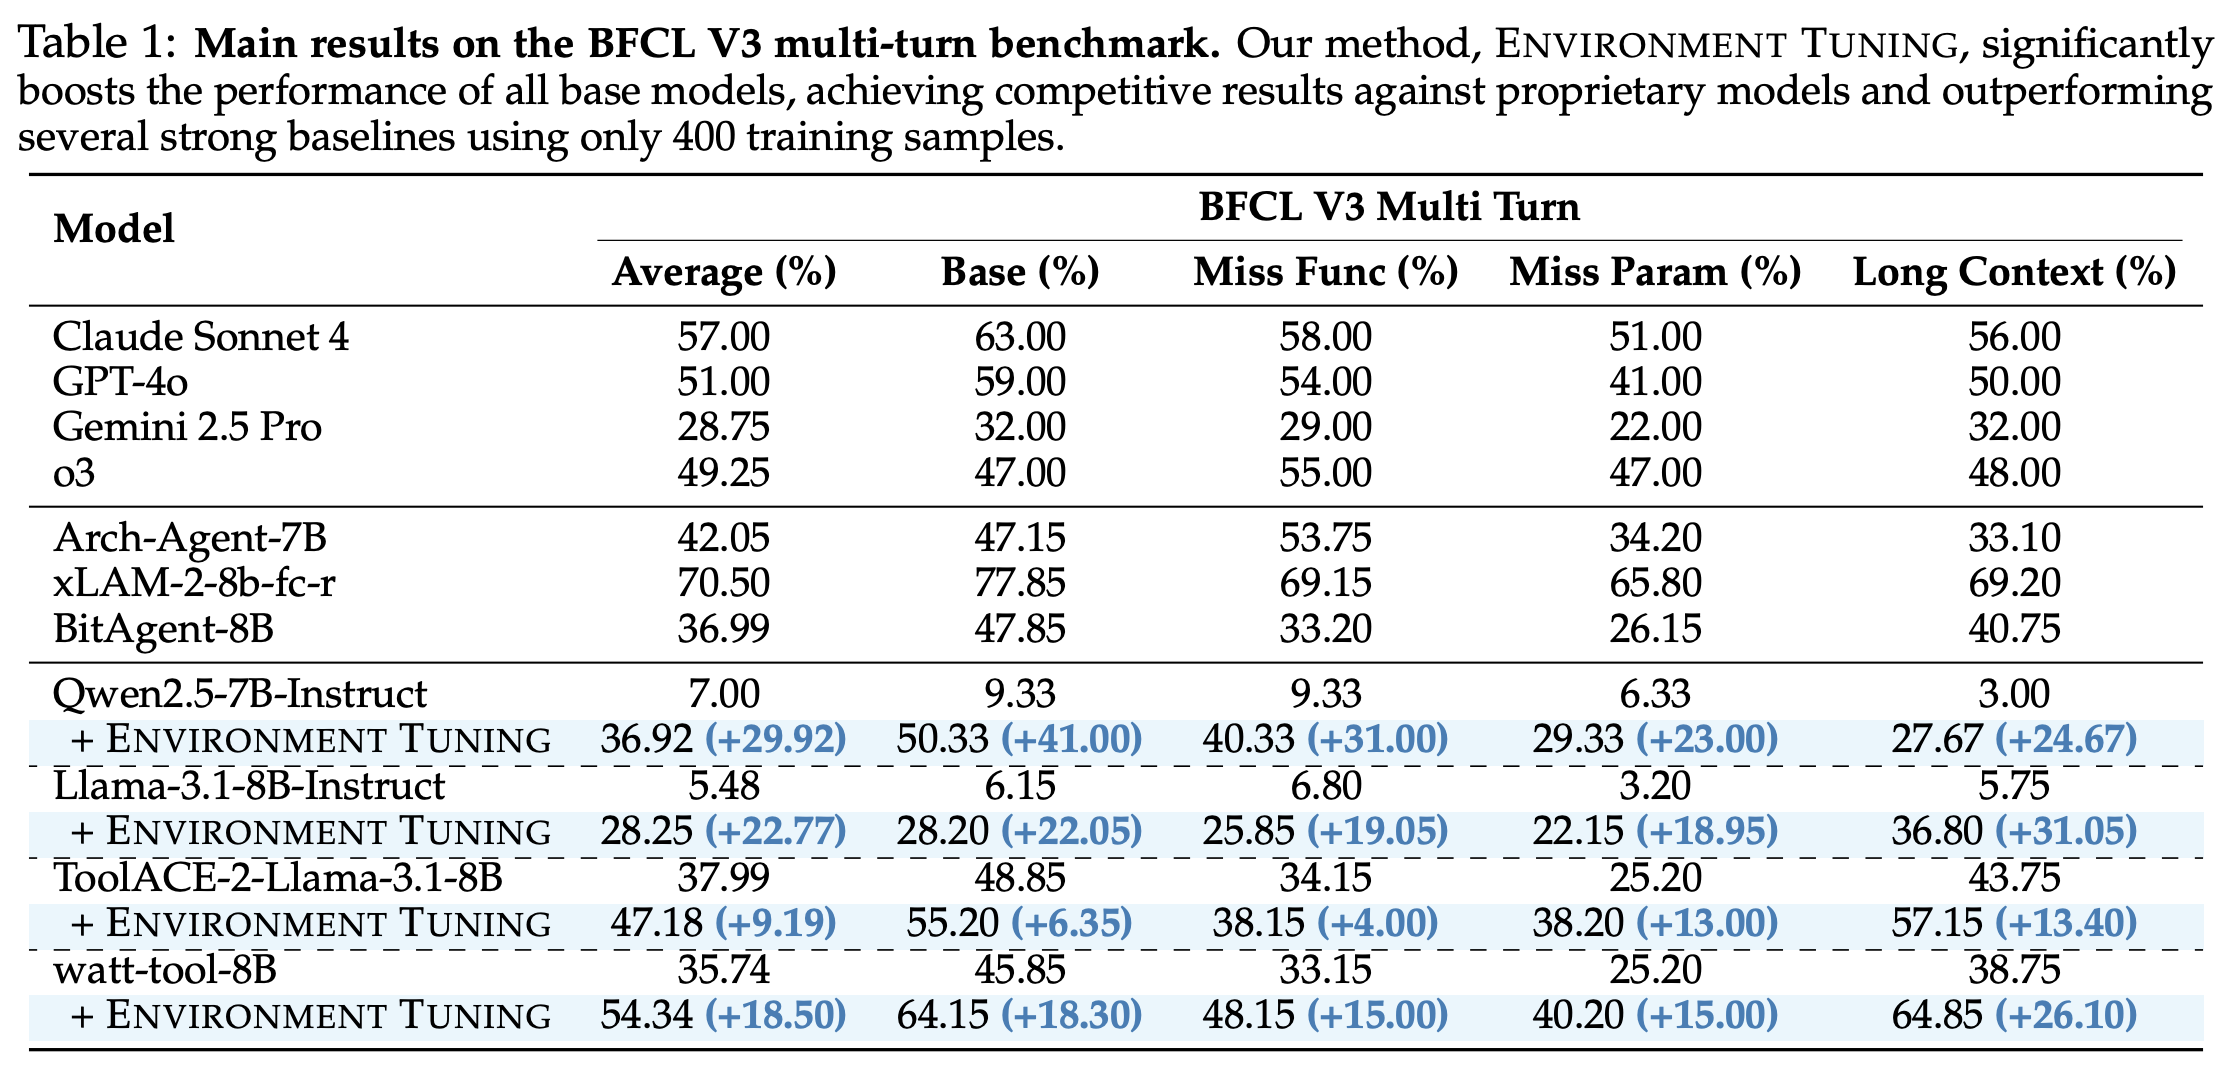
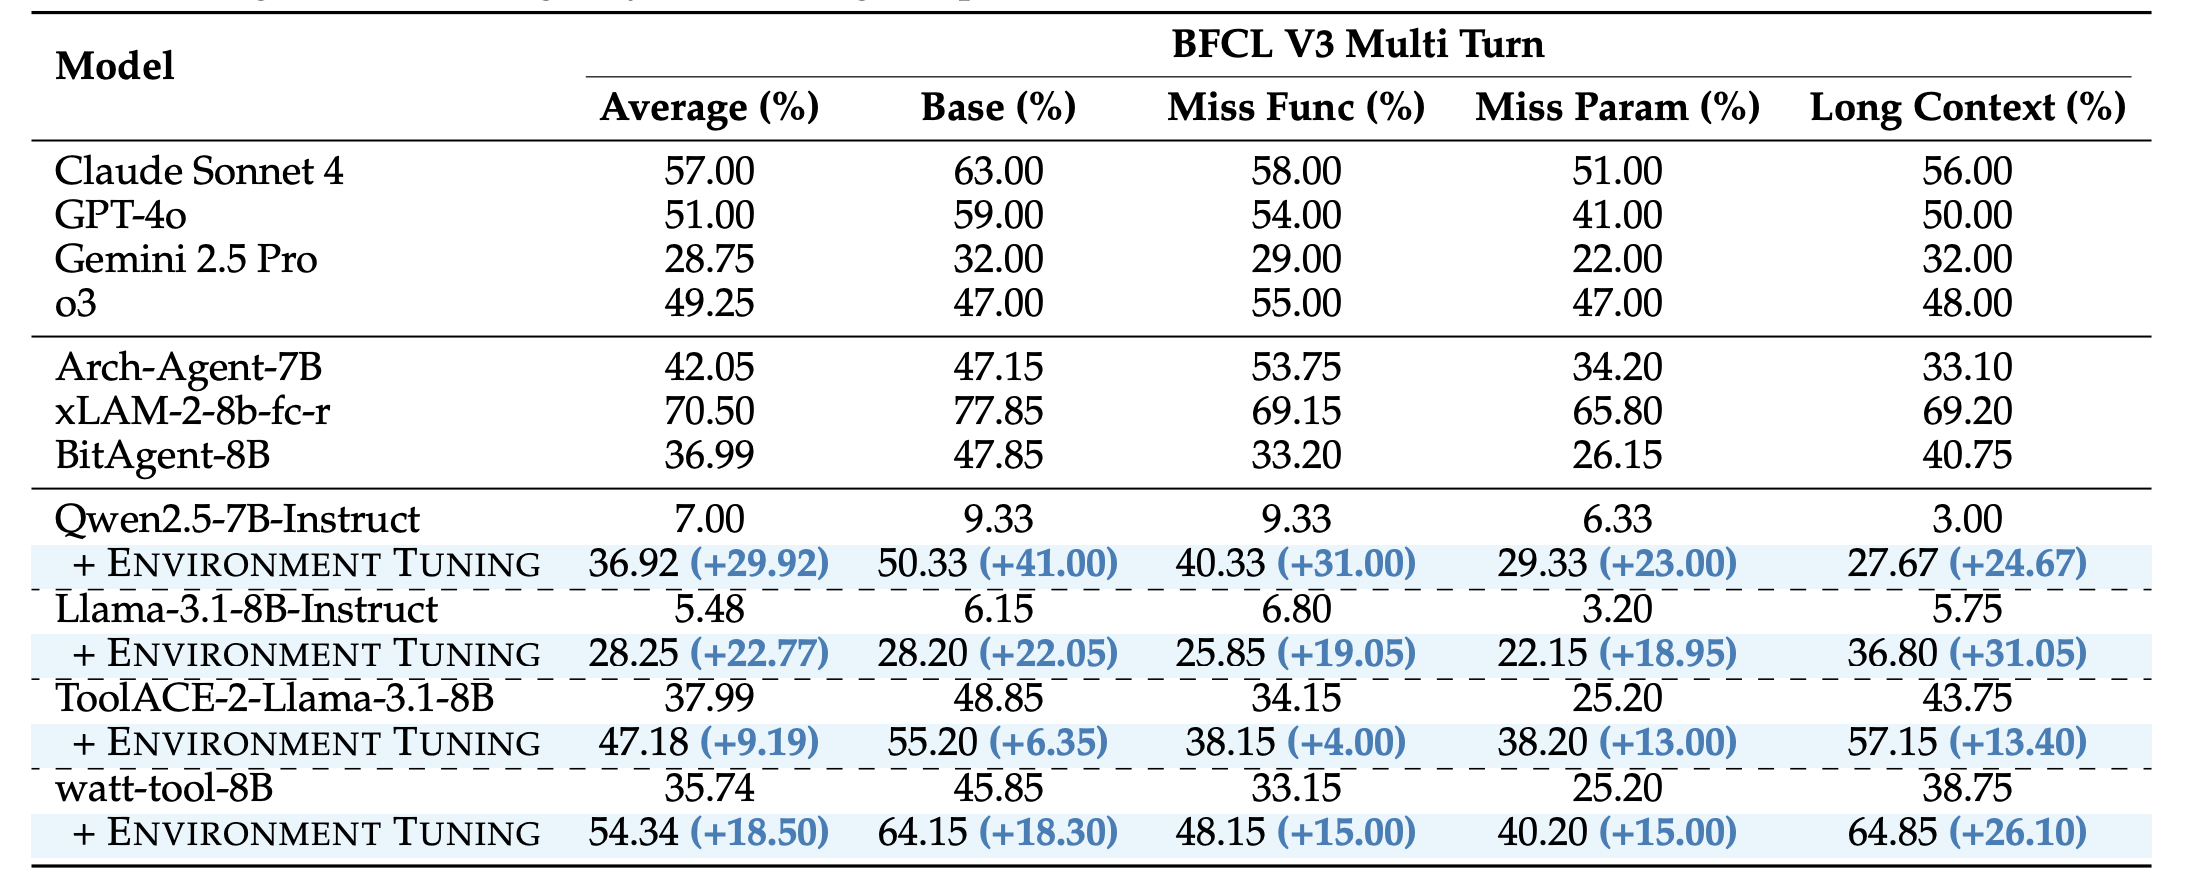
Enhance README with detailed introduction to Environment Tuning, including a four-stage curriculum, actionable environment augmentation, and fine-grained progress rewards. Add performance results and new images for better clarity. Include news section and update table of contents.

Changed region(s): [[0.0, 0.0, 0.9936, 1.0]]

diff --git a/EnvTuning/README.md b/EnvTuning/README.md
@@ -1,4 +1,82 @@
-# AWorld-RL Environment Tuning
+<div align="center">
+
+# 🚀 Don't Just Fine-tune the Agent, <br> Tune the Environment 🌱
+
+[![Paper](https://img.shields.io/badge/paper-A42C25?style=for-the-badge&logo=arxiv&logoColor=white)](https://arxiv.org/abs/2502.01456)
+[![Hugging Face](https://img.shields.io/badge/Paper-white?style=for-the-badge&logo=huggingface&logoColor=FFD21E)](https://huggingface.co/papers/2510.10197)
+
+</div>
+
+## 🎉 News
+
+* [2025/10/25] We release the code.
+
+* [2025/10/10] We propose **Environment Tuning**, a novel training paradigm that enables agents to learn complex multi-turn tool use behaviors through environmental interaction rather than trajectory imitation, achieving significant improvements with only 400 training samples.
+
+## 📋 Table of Contents
+
+- [📖 Introduction](#-introduction)
+- [✨ Quick Start](#-quick-start)
+  - [1. Environment Setup](#1-environment-setup)
+  - [2. Install verl Framework](#2-install-verl-framework)
+  - [3. Configure Model and Data Paths](#3-configure-model-and-data-paths)
+  - [4. Run Training](#4-run-training)
+- [🔧 Customization](#-customization)
+- [📜 Citation](#-citation)
+- [📞 Contact](#-contact)
+
+## 📖 Introduction
+
+Training agents for complex multi-turn tool-use is fundamentally constrained by three issues: the extreme scarcity of high-quality training data, the overfitting tendency of supervised fine-tuning (SFT) on synthetic trajectories, and the cold-start instability of standard RL methods (e.g., GRPO). To overcome these roadblocks, we introduce Environment Tuning — a training paradigm that teaches agents to learn robust behaviors by interacting with the environment rather than imitating fixed trajectories, especially under data-scarce regimes.
+
+<div align="center">
+  <img src="./assets/introduction.png" alt="Challenges and motivation">
+  
+</div>
+
+Our method is simple yet effective: we design a curriculum that moves from format understanding to real-world alignment, convert ambiguous failures into actionable guidance, and densify credit assignment across turns and states so the agent can tell “almost correct” from “completely wrong”.
+
+- Four-stage curriculum: start with syntax and calling conventions, scale to complex scenarios, and finally align under realistic evaluation conditions.
+- Actionable environment augmentation: turn vague failures into correctable hints (e.g., missing parameters, tool dependency ordering), so failures become learning signals.
+- Fine-grained progress rewards: dense feedback by turn and by execution outcome, avoiding sparse binary rewards and enabling steady improvement.
+
+<div align="center">
+  <img src="./assets/pipeline.png" alt="Four-stage curriculum with actionable augmentation and progress rewards">
+  
+</div>
+
+<details>
+<summary><b>Results</b></summary>
+
+With only 400 training instances, Environment Tuning delivers significant gains on BFCL V3. For example, Qwen2.5-7B improves from 7.0% to 36.9%, and watt-tool-8B from 35.7% to 54.3%.
+
+<div align="center">
+  <img src="./assets/main_results.png" alt="Main results on BFCL V3">
+  
+</div>
+
+Beyond in-distribution settings, Environment Tuning generalizes robustly to out-of-distribution tasks (e.g., BFCL V4, ACEBench). Notably, Llama-3.1-8B on Web Search improves from 1.0% to 15.0%. We also observe that even models previously overfitted by SFT can regain practical robustness on OOD tasks after training with our method.
+
+<div align="center">
+  <img src="./assets/OOD_results.png" alt="OOD generalization on BFCL V4 and ACEBench">
+  
+</div>
+
+Ablations confirm the necessity of both actionable augmentation and fine-grained progress rewards — removing either makes hard splits dramatically harder to improve.
+
+<div align="center">
+  <img src="./assets/ablation_results.png" alt="Ablation results">
+  
+</div>
+
+We also observe that removing the multi-stage curriculum (i.e., training with a single-stage RL pipeline) leads to unstable training, frequent collapses, and only limited gains compared to our curriculum design.
+
+<div align="center">
+  <img src="./assets/single_stage_stage.png" alt="Single-stage RL ablation">
+  
+</div>
+
+</details>
 
 ## ✨ Quick Start
 
